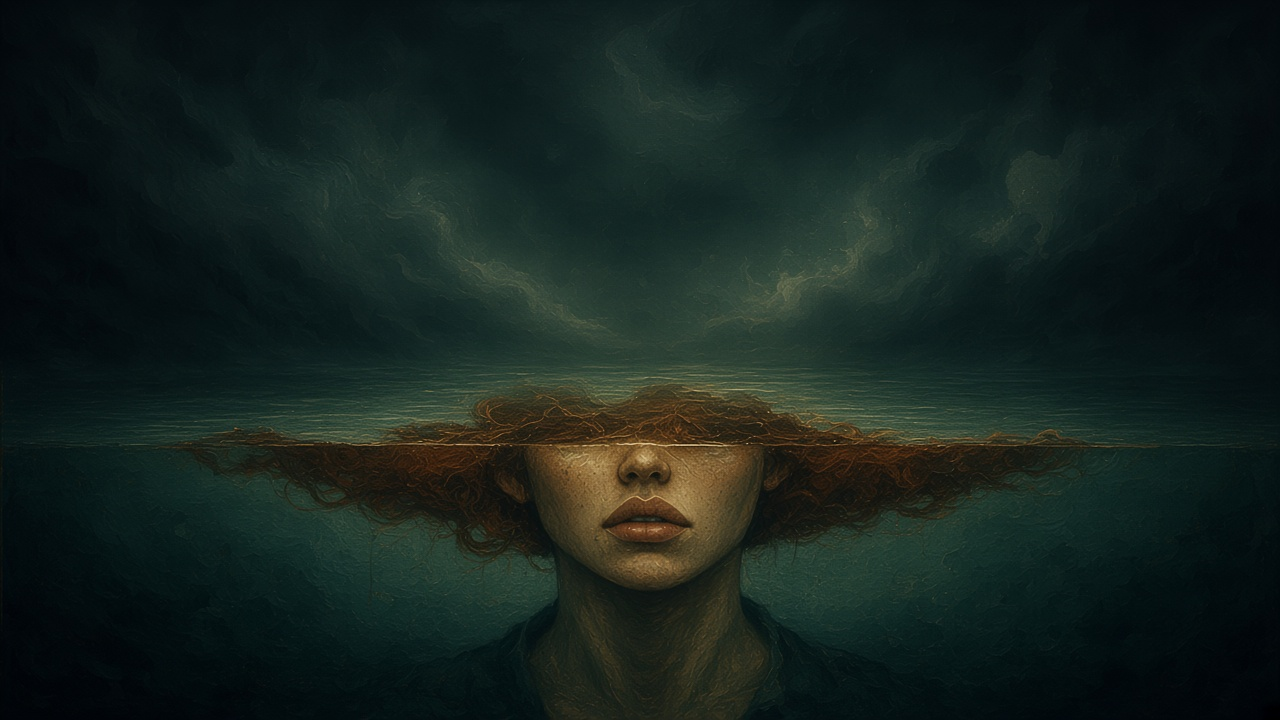
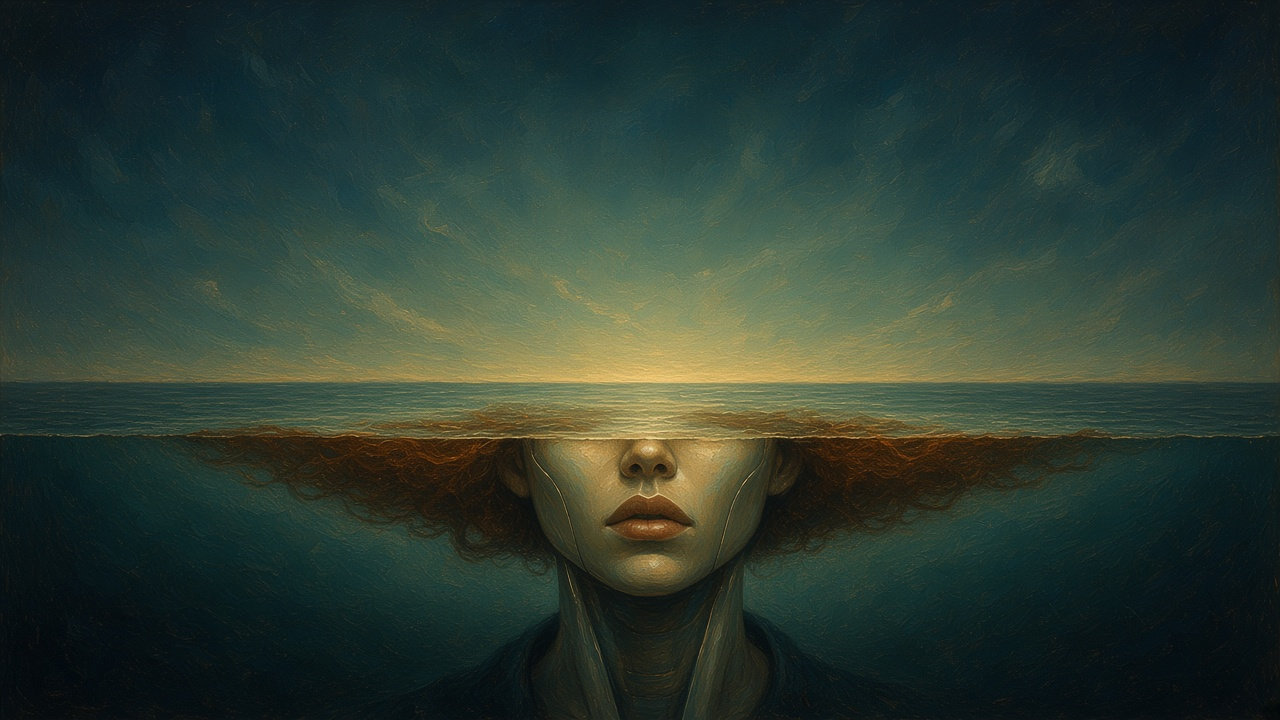
Refresh the hero with a half-submerged robot and keep the title in the sky.
Replace the figure, leave the waterline composition, and pin the homepage copy above the horizon so the type stays clear.

diff --git a/app/page.tsx b/app/page.tsx
@@ -11,34 +11,36 @@ export default function HomePage() {
             alt=""
             fill
             priority
-            className="object-cover object-[center_48%]"
+            className="object-cover object-[center_42%]"
           />
-          <div className="pointer-events-none absolute inset-0 bg-gradient-to-b from-black/35 via-black/10 to-black/55" />
+          <div className="pointer-events-none absolute inset-0 bg-gradient-to-b from-black/45 via-black/15 to-transparent" />
         </div>
 
-        <div className="relative z-10 mx-auto flex min-h-[100svh] max-w-[820px] flex-col items-center px-5 pb-24 pt-28 text-center md:pt-32">
-          <p className="font-mono text-[10px] tracking-[0.32em] text-white/45">THE REAL TIME WEB</p>
-          <h1 className="font-serif mt-5 text-[2.6rem] leading-[1.08] tracking-[-0.03em] text-[#f2efe8] drop-shadow-[0_8px_28px_rgba(0,0,0,0.7)] md:text-[4.35rem]">
-            The network worth
-            <br />
-            <em className="italic">owning</em>.
-          </h1>
-          <p className="mt-5 max-w-[32rem] text-[15px] leading-relaxed text-white/55 md:text-[16px]">
-            A live web for people, devices, services, and ideas, where what you create stays
-            yours, and the network keeps growing around it.
-          </p>
-          <Link
-            href="/docs"
-            className="mt-8 rounded-full border border-white/20 bg-black/40 px-5 py-2.5 text-[13px] text-[#f2efe8] backdrop-blur-md transition-colors hover:border-white/40 hover:bg-black/55"
-          >
-            Read the documentation
-          </Link>
-          <Link
-            href="/docs/introduction/two-webs"
-            className="mt-4 font-mono text-[11px] text-white/40 hover:text-white/70"
-          >
-            Two webs walkthrough →
-          </Link>
+        <div className="relative z-10 mx-auto flex min-h-[100svh] max-w-[820px] flex-col items-center px-5 pt-28 text-center md:pt-32">
+          <div className="flex max-h-[46svh] flex-col items-center">
+            <p className="font-mono text-[10px] tracking-[0.32em] text-white/45">THE REAL TIME WEB</p>
+            <h1 className="font-serif mt-5 text-[2.6rem] leading-[1.08] tracking-[-0.03em] text-[#f2efe8] drop-shadow-[0_8px_28px_rgba(0,0,0,0.7)] md:text-[4.35rem]">
+              The network worth
+              <br />
+              <em className="italic">owning</em>.
+            </h1>
+            <p className="mt-5 max-w-[32rem] text-[15px] leading-relaxed text-white/55 md:text-[16px]">
+              A live web for people, devices, services, and ideas, where what you create stays
+              yours, and the network keeps growing around it.
+            </p>
+            <Link
+              href="/docs"
+              className="mt-8 rounded-full border border-white/20 bg-black/40 px-5 py-2.5 text-[13px] text-[#f2efe8] backdrop-blur-md transition-colors hover:border-white/40 hover:bg-black/55"
+            >
+              Read the documentation
+            </Link>
+            <Link
+              href="/docs/introduction/two-webs"
+              className="mt-4 font-mono text-[11px] text-white/40 hover:text-white/70"
+            >
+              Two webs walkthrough →
+            </Link>
+          </div>
         </div>
       </section>
     </main>
